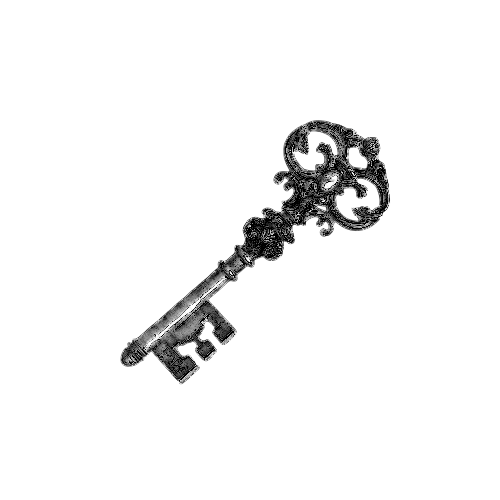
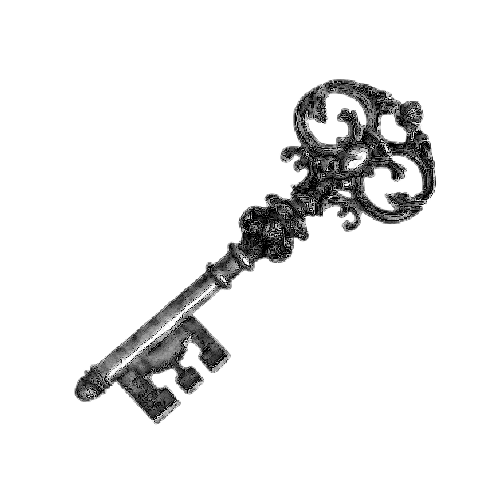
UI polish: round spin button with transparent bg, balance/bet/spin same row layout, win panel with reserved space, unified grid lines with blur, spacebar spin support, per-symbol fry overrides (DICE/KING gamma+posterize), updated SWORD/KEY originals

Changed region(s): [[0.15, 0.15, 0.87, 0.87]]

diff --git a/src/game/render/GridView.ts b/src/game/render/GridView.ts
@@ -1,4 +1,4 @@
-import { Container, Sprite, Graphics, Assets } from 'pixi.js';
+import { Container, Sprite, Graphics, Assets, BlurFilter } from 'pixi.js';
 import { AssetLoader } from '../AssetLoader';
 import { Grid } from '../Types';
 import { ReelSpinner } from './ReelSpinner';
@@ -99,19 +99,30 @@ export class GridView extends Container {
         this.sprites[col][row] = new Sprite();
       }
       
-      // Cell borders
-      for (let row = 0; row < this.rows; row++) {
-        const cellBorder = new Graphics();
-        cellBorder.rect(
-          col * (this.cellSize + this.padding),
-          row * (this.cellSize + this.padding),
-          this.cellSize,
-          this.cellSize
-        );
-        cellBorder.stroke({ color: 0xdddddd, width: 2 });
-        this.addChild(cellBorder);
-      }
     }
+
+    // Grid border: outer border + internal grid lines
+    const gridLines = new Graphics();
+    // Outer border
+    gridLines.rect(0, 0, totalWidth, totalHeight);
+    gridLines.stroke({ color: 0xdddddd, width: 2 });
+    // Vertical internal lines
+    for (let col = 1; col < this.cols; col++) {
+      const x = col * (this.cellSize + this.padding) - this.padding / 2;
+      gridLines.moveTo(x, 0);
+      gridLines.lineTo(x, totalHeight);
+      gridLines.stroke({ color: 0xdddddd, width: 1 });
+    }
+    // Horizontal internal lines
+    for (let row = 1; row < this.rows; row++) {
+      const y = row * (this.cellSize + this.padding) - this.padding / 2;
+      gridLines.moveTo(0, y);
+      gridLines.lineTo(totalWidth, y);
+      gridLines.stroke({ color: 0xdddddd, width: 1 });
+    }
+    // Apply blur filter to soften the lines
+    gridLines.filters = [new BlurFilter({ strength: 1.76 })];
+    this.addChild(gridLines);
   }
 
   private pendingStopTimers: ReturnType<typeof setTimeout>[] = [];

diff --git a/index.html b/index.html
@@ -63,16 +63,16 @@
       }
 
       #spin-btn {
-        background-image: url('/assets/symbols/button.png');
-        background-size: 100% 100%;
-        background-repeat: no-repeat;
-        background-position: center;
+        background: url('/assets/symbols/button.png') no-repeat center / cover;
+        background-color: transparent;
         border: none;
         color: #fff;
         font-family: 'CustomFont', 'Arial', sans-serif;
-        font-size: 24px;
+        font-size: 20px;
         font-weight: bold;
-        padding: 20px 60px;
+        width: 200px;
+        height: 100px;
+        border-radius: 15%;
         cursor: pointer;
         transition: all 0.2s;
         text-transform: uppercase;
@@ -105,7 +105,7 @@
 
       .info-label {
         font-size: 14px;
-        color: #8b4abf;
+        color: #918898;
         text-transform: uppercase;
         letter-spacing: 1px;
         margin-bottom: 4px;
@@ -148,7 +148,7 @@
           
           <div class="info-panel" style="text-align: center; margin-left: auto; margin-right: 10%;">
             <div class="info-label">Bet</div>
-            <div class="info-value" style="font-size: 18px;">0.20 €</div>
+            <div class="info-value">0.20 €</div>
           </div>
         </div>
       </div>

diff --git a/src/main.ts b/src/main.ts
@@ -85,6 +85,14 @@ async function init() {
     spinBtn.disabled = false;
     spinBtn.addEventListener('click', handleSpin);
 
+    // Space bar triggers spin
+    window.addEventListener('keydown', (e) => {
+      if (e.code === 'Space') {
+        e.preventDefault();
+        handleSpin();
+      }
+    });
+
     console.log('✅ Game ready! Canvas size:', app.canvas.width, 'x', app.canvas.height);
     
     app.ticker.add((ticker) => {
